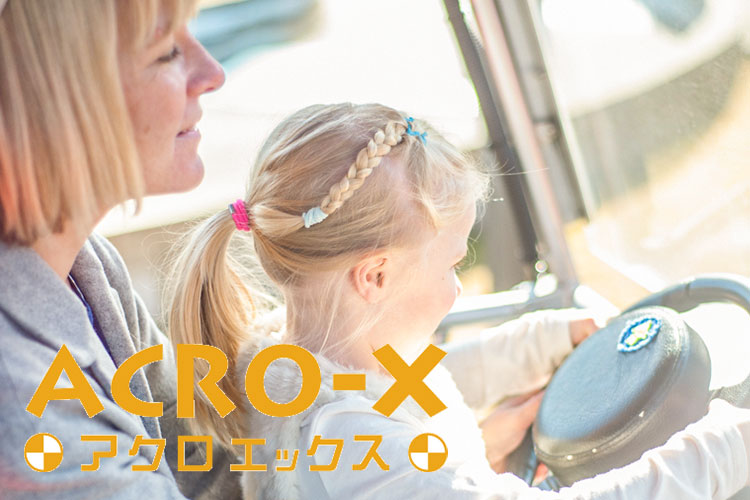
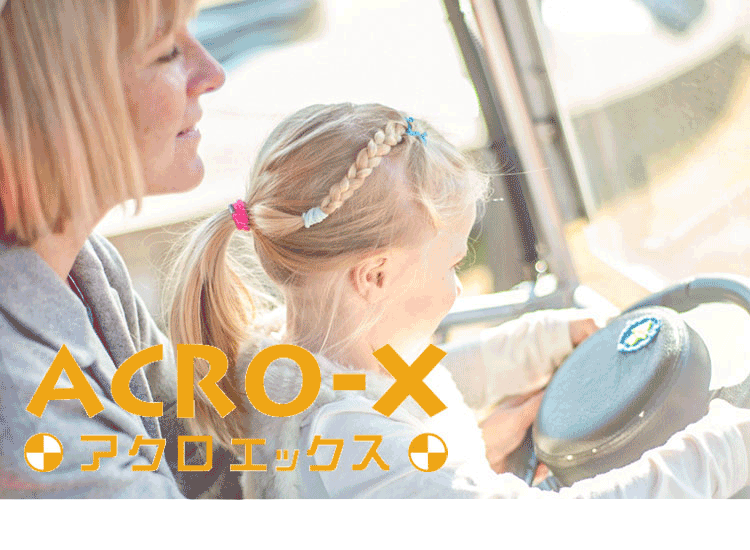
FB updates

diff --git a/resources/assets/js/labo.js b/resources/assets/js/labo.js
@@ -13,10 +13,12 @@ export default class galleryLabo {
       spaceBetween: 10,
       variableWidth: true,
       slidesPerView: 'auto',
-      centeredSlides: true,
+      // centeredSlides: true,
+      allowTouchMove: false,
       freeMode: true,
       watchSlidesVisibility: true,
       watchSlidesProgress: true,
+      noSwiping: true
     })
 
     new Swiper('.js-gallery', {
@@ -33,10 +35,12 @@ export default class galleryLabo {
       spaceBetween: 10,
       variableWidth: true,
       slidesPerView: 'auto',
-      centeredSlides: true,
+      // centeredSlides: true,
+      allowTouchMove: false,
       freeMode: true,
       watchSlidesVisibility: true,
       watchSlidesProgress: true,
+      noSwiping: true
     })
 
     new Swiper('.js-gallery2', {

diff --git a/resources/assets/css/components/_article.scss b/resources/assets/css/components/_article.scss
@@ -106,17 +106,22 @@
 }
 
 .article-type {
-  display: block;
+  background: linear-gradient(to right, #027cc3 0%, #099f48 100%);
+  -webkit-background-clip: text;
+  -webkit-text-fill-color: transparent;
+
+  display: inline-block;
   text-transform: uppercase;
   font-size: 14px;
-  color: #57cd32;
+  color: #09a046;
   font-weight: 600;
   margin-bottom: 7px;
   letter-spacing: 0.06em;
+  line-height: 1;
 
-  &.article-type-event {
-    color: #3e9722;
-  }
+  // &.article-type-event {
+  //   color: #09a046;
+  // }
 
 }
 

diff --git a/resources/assets/css/components/_mv.scss b/resources/assets/css/components/_mv.scss
@@ -57,7 +57,7 @@
     }
 
     @include max-screen($breakpoint-mobile) {
-      padding-bottom: 65%;
+      padding-bottom: 67%;
     }
 
     &::after {
@@ -899,6 +899,15 @@
         font-size: 46px;
       }
     }
+  }
+
+  &.mv-subpage-acrox {
+    &::after {
+      @include max-screen($breakpoint-mobile) {
+        display: none;
+      }
+    }
+
   }
 
   &.mv-subpage-craft {

diff --git a/resources/assets/css/components/_slider.scss b/resources/assets/css/components/_slider.scss
@@ -85,6 +85,11 @@
 }
 
 .slider-gallery-thumb {
+
+  .swiper-wrapper {
+    justify-content: center;
+  }
+
   .slider-item {
     width: 70px;
   }
